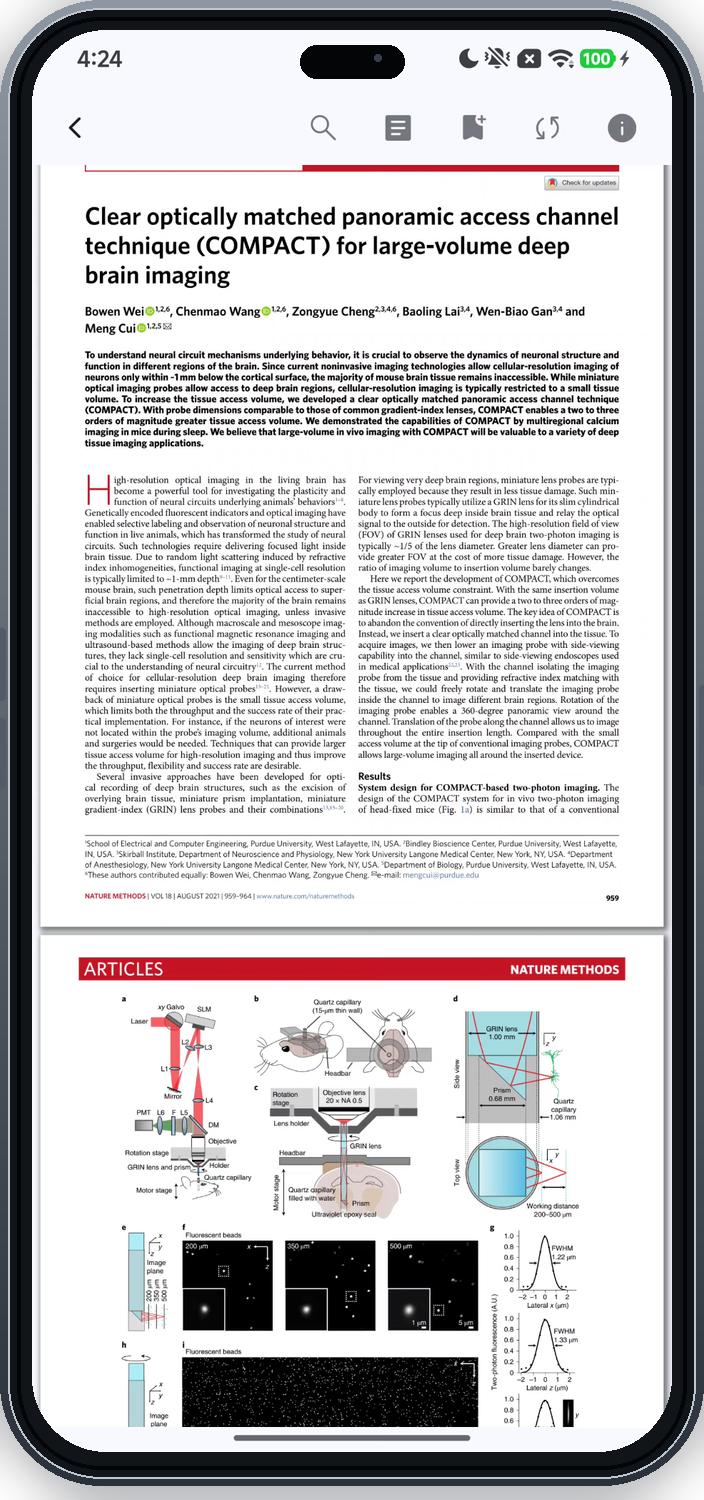
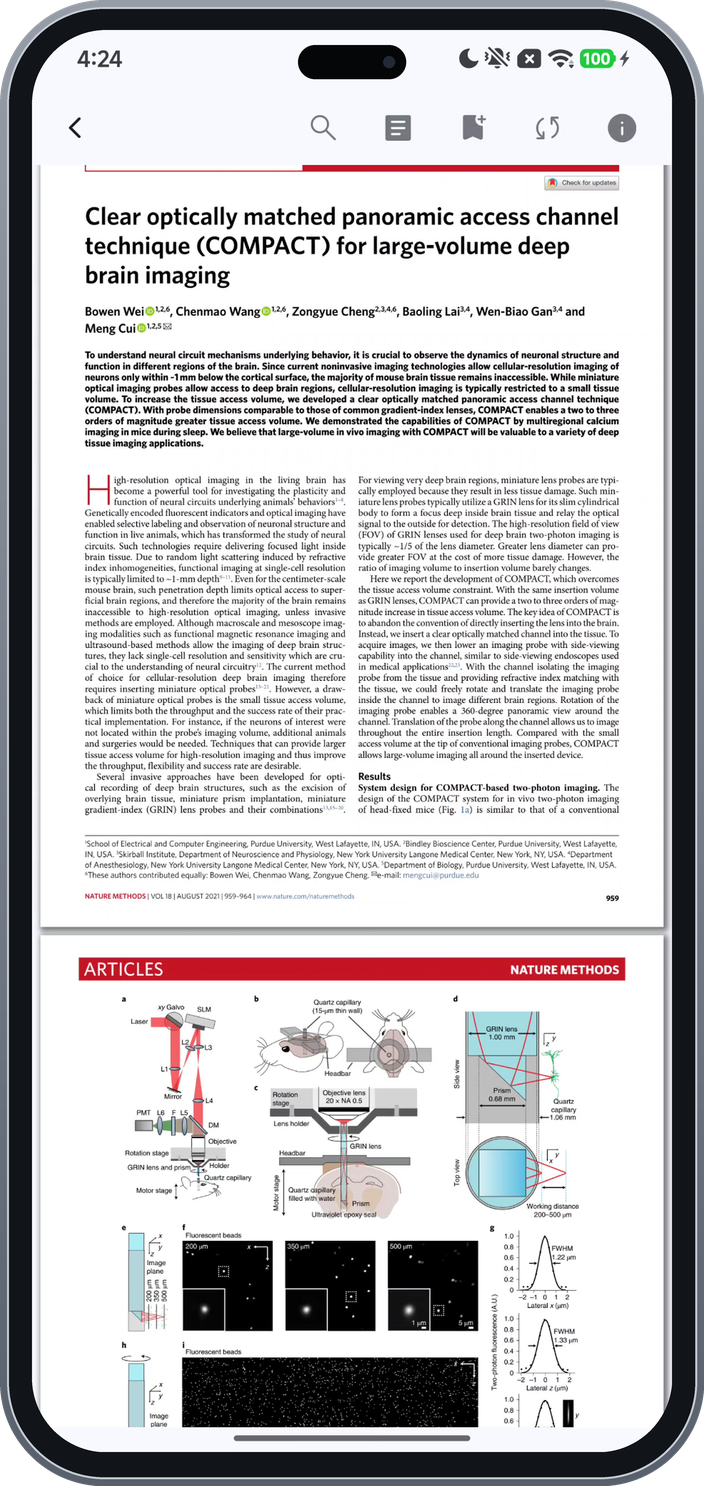
docs(screenshots): redraw antialiased transparent phone frames

Changed region(s): [[0.0, 0.0, 1.0, 1.0], [0.0, 0.0, 0.125, 0.0613], [0.5312, 0.0307, 0.5625, 0.0613]]

diff --git a/scripts/frame_screenshots.py b/scripts/frame_screenshots.py
@@ -1,81 +1,93 @@
-"""将 docs 下的手机截图套上 Google Pixel 9 Pro 机框。
+"""给 docs/screenshots 下的手机原图套上 iPhone 风格机框：uv run --with pillow scripts/frame_screenshots.py。
 
-机框资源：scripts/device_frames/pixel9pro_obsidian.png
-来源：https://github.com/jamesjingyi/mockup-device-frames (Pixel 9 Pro Obsidian)
+机框用 4 倍超采样绘制后缩小，边缘抗锯齿；机身外完全透明、不带投影，
+深浅背景下都不会出现灰边。输出尺寸与屏幕区域固定，website/prepare_images.py 依赖这些坐标。
 """
 
 from __future__ import annotations
 
 from pathlib import Path
 
-from PIL import Image
+from PIL import Image, ImageDraw
 
-ROOT = Path(__file__).resolve().parent.parent
-DOCS = ROOT / "docs"
-FRAME_PATH = Path(__file__).resolve().parent / "device_frames" / "pixel9pro_obsidian.png"
+SHOTS = Path(__file__).resolve().parent.parent / "docs" / "screenshots"
 
-# Pixel 9 Pro Obsidian frame：透明洞为屏幕区域
-# frame size 1620x3136, screen hole (170, 142) – (1449, 2997) = 1280x2856
-SCREEN = (170, 142, 1449, 2997)  # left, top, right, bottom inclusive
+SS = 4
+CANVAS = (704, 1500)
+BODY = (0, 0, 704, 1486)
+BODY_RADIUS = 104
+SCREEN = (32, 30, 672, 1452)
+SCREEN_RADIUS = 74
+ISLAND = (298, 45, 406, 79)
 
-# README 展示用输出宽度（保持比例）
-OUT_WIDTH = 480
+RIM_TOP = (150, 157, 167)
+RIM_BOTTOM = (88, 96, 108)
+HIGHLIGHT = (196, 202, 210)
+BEZEL = (17, 20, 25)
+ISLAND_COLOR = (5, 6, 8)
+LENS = (34, 42, 54)
 
-SOURCES = [
-    "PDF_reader.png",
-    "immersive_reading_experience.png",
-    "extract_figures_for_reading.png",
-    "ask_anything_with_fullcontext.png",
-]
+SOURCES = ["mobile-pdf", "mobile-reading-bilingual", "mobile-figures", "mobile-ai", "mobile-ai-en"]
 
 
-def frame_screenshot(src_path: Path, frame: Image.Image, out_path: Path) -> None:
-    src = Image.open(src_path).convert("RGBA")
-    sw, sh = src.size
+def scaled(box: tuple[int, ...]) -> tuple[int, ...]:
+    return tuple(v * SS for v in box)
+
+
+def inset(box: tuple[int, ...], d: int) -> tuple[int, ...]:
+    l, t, r, b = box
+    return l + d, t + d, r - d, b - d
+
+
+def rounded_mask(size: tuple[int, int], box: tuple[int, ...], radius: int) -> Image.Image:
+    mask = Image.new("L", size, 0)
+    ImageDraw.Draw(mask).rounded_rectangle(scaled(box), radius * SS, fill=255)
+    return mask
+
+
+def frame(src_path: Path, out_path: Path) -> None:
+    w, h = BODY[2] * SS, BODY[3] * SS
+    img = Image.new("RGBA", (w, h), (0, 0, 0, 0))
+
+    # 外圈钛金属边：自上而下的渐变
+    rim = Image.new("RGBA", (1, h))
+    for y in range(h):
+        t = y / (h - 1)
+        rim.putpixel((0, y), tuple(round(a + (b - a) * t) for a, b in zip(RIM_TOP, RIM_BOTTOM)) + (255,))
+    img.paste(rim.resize((w, h)), (0, 0), rounded_mask((w, h), BODY, BODY_RADIUS))
+
+    draw = ImageDraw.Draw(img)
+    draw.rounded_rectangle(scaled(inset(BODY, 7)), (BODY_RADIUS - 7) * SS, fill=HIGHLIGHT)
+    draw.rounded_rectangle(scaled(inset(BODY, 9)), (BODY_RADIUS - 9) * SS, fill=BEZEL)
 
     sl, st, sr, sb = SCREEN
-    tw, th = sr - sl + 1, sb - st + 1
+    tw, th = (sr - sl) * SS, (sb - st) * SS
+    src = Image.open(src_path).convert("RGBA")
+    # cover 适配后居中裁切
+    scale = max(tw / src.width, th / src.height)
+    nw, nh = round(src.width * scale), round(src.height * scale)
+    src = src.resize((nw, nh), Image.Resampling.LANCZOS)
+    left, top = (nw - tw) // 2, (nh - th) // 2
+    src = src.crop((left, top, left + tw, top + th))
+    screen_bg = Image.new("RGBA", (tw, th), BEZEL + (255,))
+    screen_bg.alpha_composite(src)
+    img.paste(screen_bg, (sl * SS, st * SS), rounded_mask((w, h), SCREEN, SCREEN_RADIUS).crop(scaled(SCREEN)))
 
-    # cover-fit 填满屏幕后居中裁切
-    scale = max(tw / sw, th / sh)
-    nw, nh = int(sw * scale + 0.5), int(sh * scale + 0.5)
-    src_r = src.resize((nw, nh), Image.Resampling.LANCZOS)
-    left = (nw - tw) // 2
-    top = (nh - th) // 2
-    src_r = src_r.crop((left, top, left + tw, top + th))
+    il, it, ir, ib = ISLAND
+    draw.rounded_rectangle(scaled(ISLAND), (ib - it) * SS // 2, fill=ISLAND_COLOR)
+    cx, cy, r = ir - 17, (it + ib) / 2, 6
+    draw.ellipse(scaled((round(cx - r), round(cy - r), round(cx + r), round(cy + r))), fill=LENS)
 
-    canvas = Image.new("RGBA", frame.size, (0, 0, 0, 0))
-    canvas.paste(src_r, (sl, st))
-    # 机框叠在上方：边框/侧键/挖孔摄像头盖住截图
-    result = Image.alpha_composite(canvas, frame)
-
-    # 缩到 README 友好尺寸
-    out_h = int(result.height * OUT_WIDTH / result.width + 0.5)
-    result = result.resize((OUT_WIDTH, out_h), Image.Resampling.LANCZOS)
-    result.save(out_path, "PNG", optimize=True)
-    print(f"  -> {out_path.name} {result.size}")
+    body = img.resize(BODY[2:], Image.Resampling.LANCZOS)
+    out = Image.new("RGBA", CANVAS, (0, 0, 0, 0))
+    out.paste(body, BODY[:2])
+    out.save(out_path, "PNG", optimize=True)
+    print(f"{src_path.name} -> {out_path.name} {out.size}")
 
 
 def main() -> None:
-    if not FRAME_PATH.exists():
-        raise SystemExit(
-            f"缺少机框: {FRAME_PATH}\n"
-            "请从 jamesjingyi/mockup-device-frames 下载 Pixel 9 Pro Obsidian PNG。"
-        )
-
-    frame = Image.open(FRAME_PATH).convert("RGBA")
-    print(f"机框: {FRAME_PATH.name} {frame.size}")
-
     for name in SOURCES:
-        src = DOCS / name
-        if not src.exists():
-            print(f"  skip missing {name}")
-            continue
-        out = DOCS / name.replace(".png", "_framed.png")
-        print(f"Framing {name}...")
-        frame_screenshot(src, frame, out)
-
-    print("Done.")
+        frame(SHOTS / f"{name}.png", SHOTS / f"{name}-framed.png")
 
 
 if __name__ == "__main__":

diff --git a/docs/screenshots/README.md b/docs/screenshots/README.md
@@ -1,6 +1,6 @@
 # README 截图
 
-2026-09-15 采集，统一使用浅色主题和不透明 PNG。README 分「移动端 / 桌面端」两节，全部截图放进表格，每张图配一行加粗标题：移动端 2×2 网格，固定展示宽度 280；桌面端首图跨两列铺满正文宽度，其余两列并排，不设固定宽度。桌面端保留原始截图，移动端套用 iPhone 17 Pro 风格的设备外框。中英文 README 版式一致，仅标题语言与语言相关截图不同。
+2026-09-15 采集，统一使用浅色主题，原图为不透明 PNG。README 分「移动端 / 桌面端」两节，全部截图放进表格，每张图配一行加粗标题：移动端 2×2 网格，固定展示宽度 280；桌面端首图跨两列铺满正文宽度，其余两列并排，不设固定宽度。桌面端保留原始截图，移动端套用 iPhone 17 Pro 风格的设备外框，由 `uv run --with pillow scripts/frame_screenshots.py` 从同名原图生成：机框抗锯齿，机身外透明且不带投影，适配 GitHub 深浅两种主题。中英文 README 版式一致，仅标题语言与语言相关截图不同。
 
 | 节 | 标题 | 图片 |
 | --- | --- | --- |
